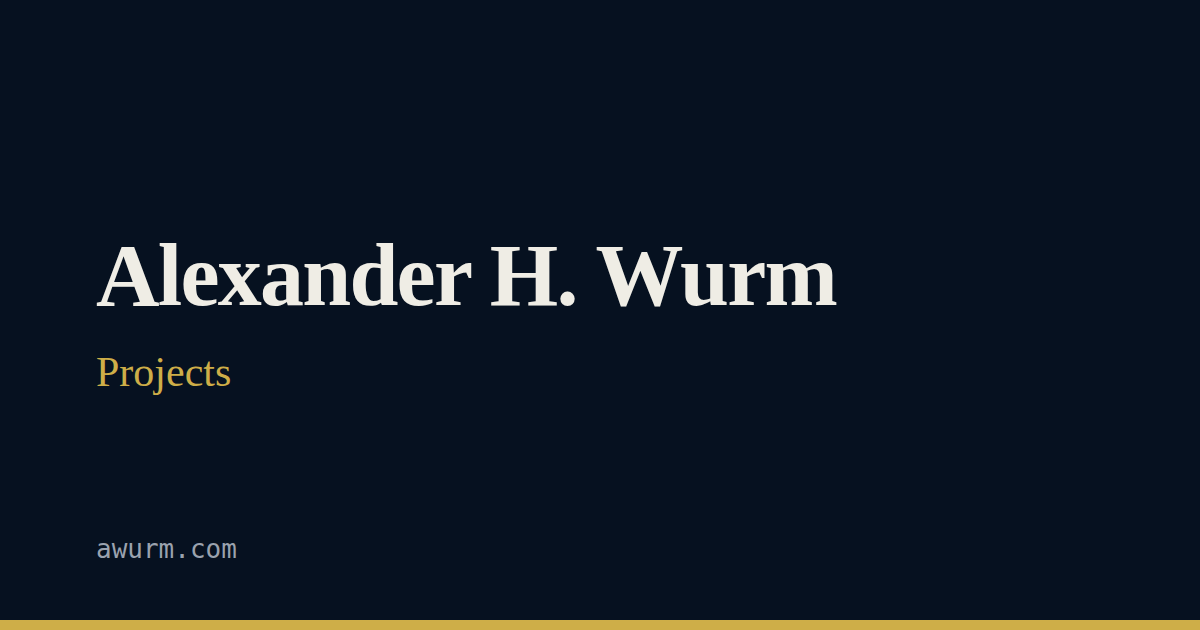
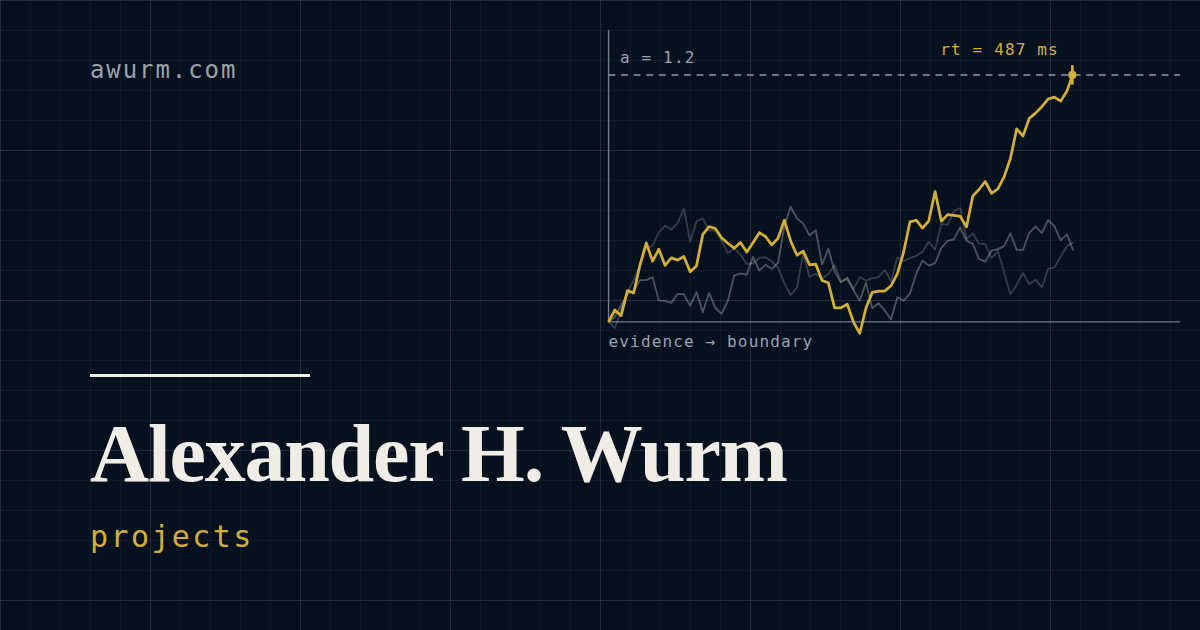
feat(reskin): OG cards on lab-grid with completed trial + COPY-REVIEW reskin microcopy section

diff --git a/COPY-REVIEW.md b/COPY-REVIEW.md
@@ -93,3 +93,59 @@ existing verified facts. Approve or edit before merge (PERSONAL-TODO #8).
 15. **PsyArXiv preprint author line** — "Konstantina Sokratous, Guy Hawkins, Alexander
     Wurm, Peter Kvam" — author order per OSF record; name forms match the existing
     CogSci citation on the old site.
+
+## Reskin microcopy (Evidence Accumulator pass, 2026-06-10)
+
+UI chrome strings only — none state a new fact about Alex. The figure captions
+describe the drift-diffusion model itself (true statements of DDM mechanics),
+not biography. Approve or edit before merge.
+
+16. **Hero readout line** (typed under the name when the live trial commits;
+    template, real measured values):
+    `decision: alexander_h_wurm · rt = <elapsed ms> ms · trials = <n>`
+    Static fallback (no-JS / reduced motion, matches the pre-drawn figure):
+    `decision: alexander_h_wurm · rt = 487 ms · trials = 1`
+
+17. **Hero figure caption**:
+    `fig. 1 — evidence accumulation to boundary; first passage determines response.`
+
+18. **Hero figure a11y**: re-run button aria-label `Re-run trial`; SVG alt
+    "Completed drift-diffusion trial: four evidence traces accumulate over
+    time; the winning trace crosses the decision boundary a = 1.2 at 487 ms."
+
+19. **Research sparkline**: label `notes / quarter`; axis labels `2021` /
+    `2026·q2` (derived from the data); SVG alt "Industry notes per quarter,
+    2021 to 2026; peak N per quarter; current quarter q2 2026." (computed)
+
+20. **Research sample-size annotation** (live count under filters):
+    `n = 164` → with filters e.g. `n = 43 · year = 2024 · type = roi study`
+
+21. **"Let the model decide" button**: `let the model decide →`
+    Screen-reader result announcement: `decision: #163 · rt = 832 ms` (template,
+    real values; reduced-motion variant omits rt).
+
+22. **404 page**: kicker `error · 404`; figure caption
+    `fig. 0 — no decision reached. boundary not crossed.`; SVG alt
+    "Drift-diffusion trial with three evidence traces that wander but never
+    reach the decision boundary a = 1.2."
+
+23. **Footer**: `local time — <live ET clock> ET` (no-JS fallback = build
+    timestamp) · `© 2026 · built static · no trackers` (all true: static Astro
+    build, zero analytics/trackers) · `llms.txt` link label.
+
+24. **Plate captions** (featured talks, templated from existing talk data):
+    `plate <n> — <event lowercased>, <mon yyyy>` e.g.
+    `plate 1 — teradata webinar, jul 2025`.
+
+25. **Publication kind markers**: `[peer-reviewed]` / `[preprint]` replace the
+    "Peer-reviewed" / "Pre-print" pills (same meaning, marginalia form).
+
+26. **Speaking year group headings**: `//2025` (mono prefix form of the year).
+
+27. **Case restyling only** (no wording change, lowercased/monospaced via CSS):
+    nav labels, button labels, link labels ("read research ↗", "abstract",
+    "view screenshots", "github ↗", etc.), research tab labels, type/status
+    tags. The underlying strings in data files are unchanged.
+
+28. **OG cards**: serif name + mono page label (lowercased existing labels);
+    figure annotations `a = 1.2`, `rt = 487 ms`, `evidence → boundary`.
